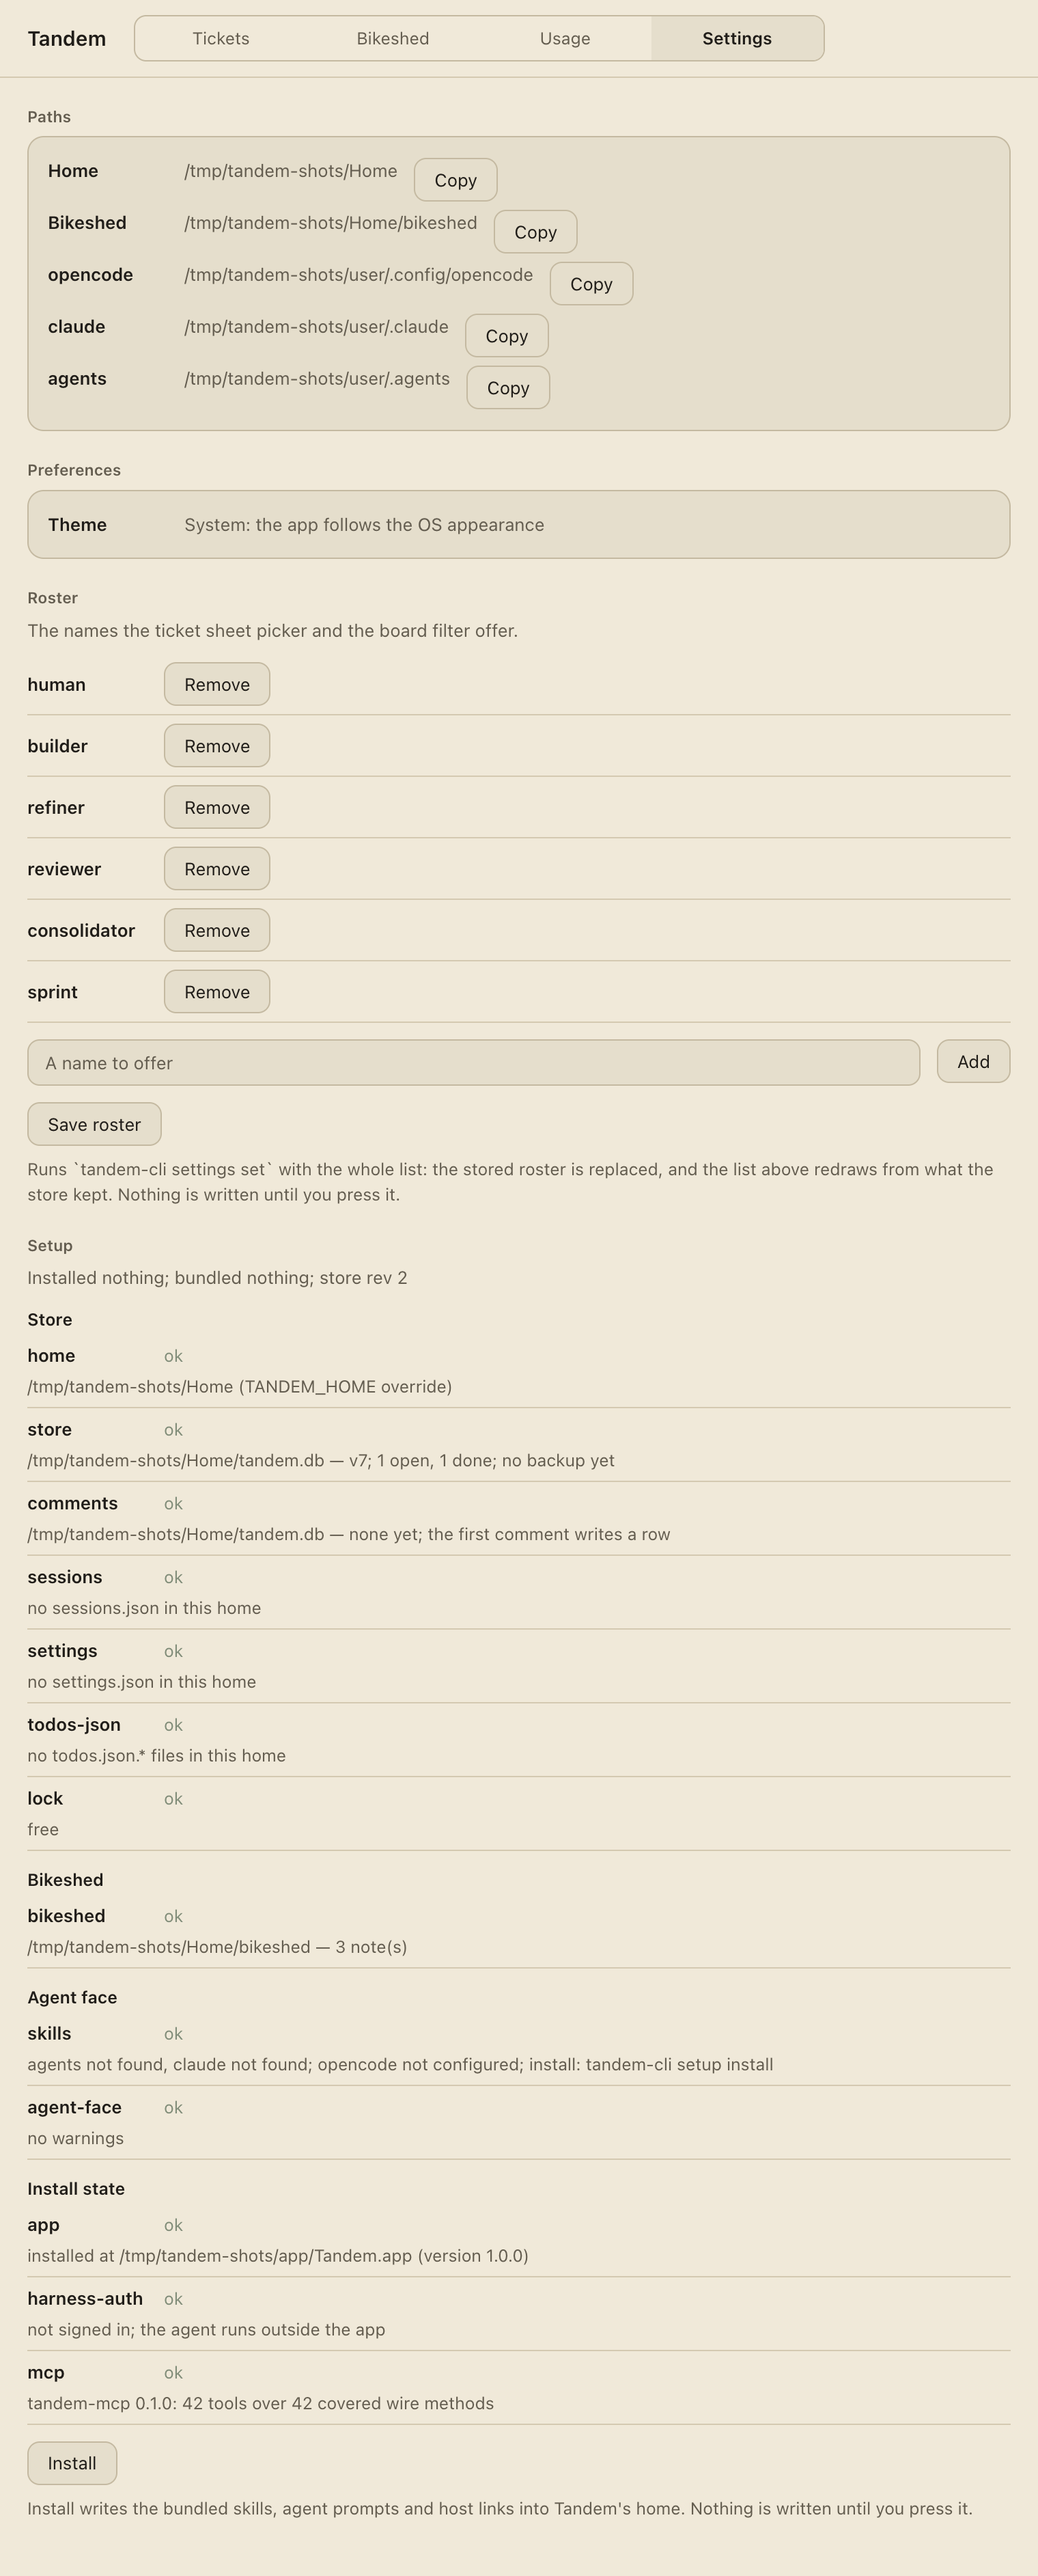
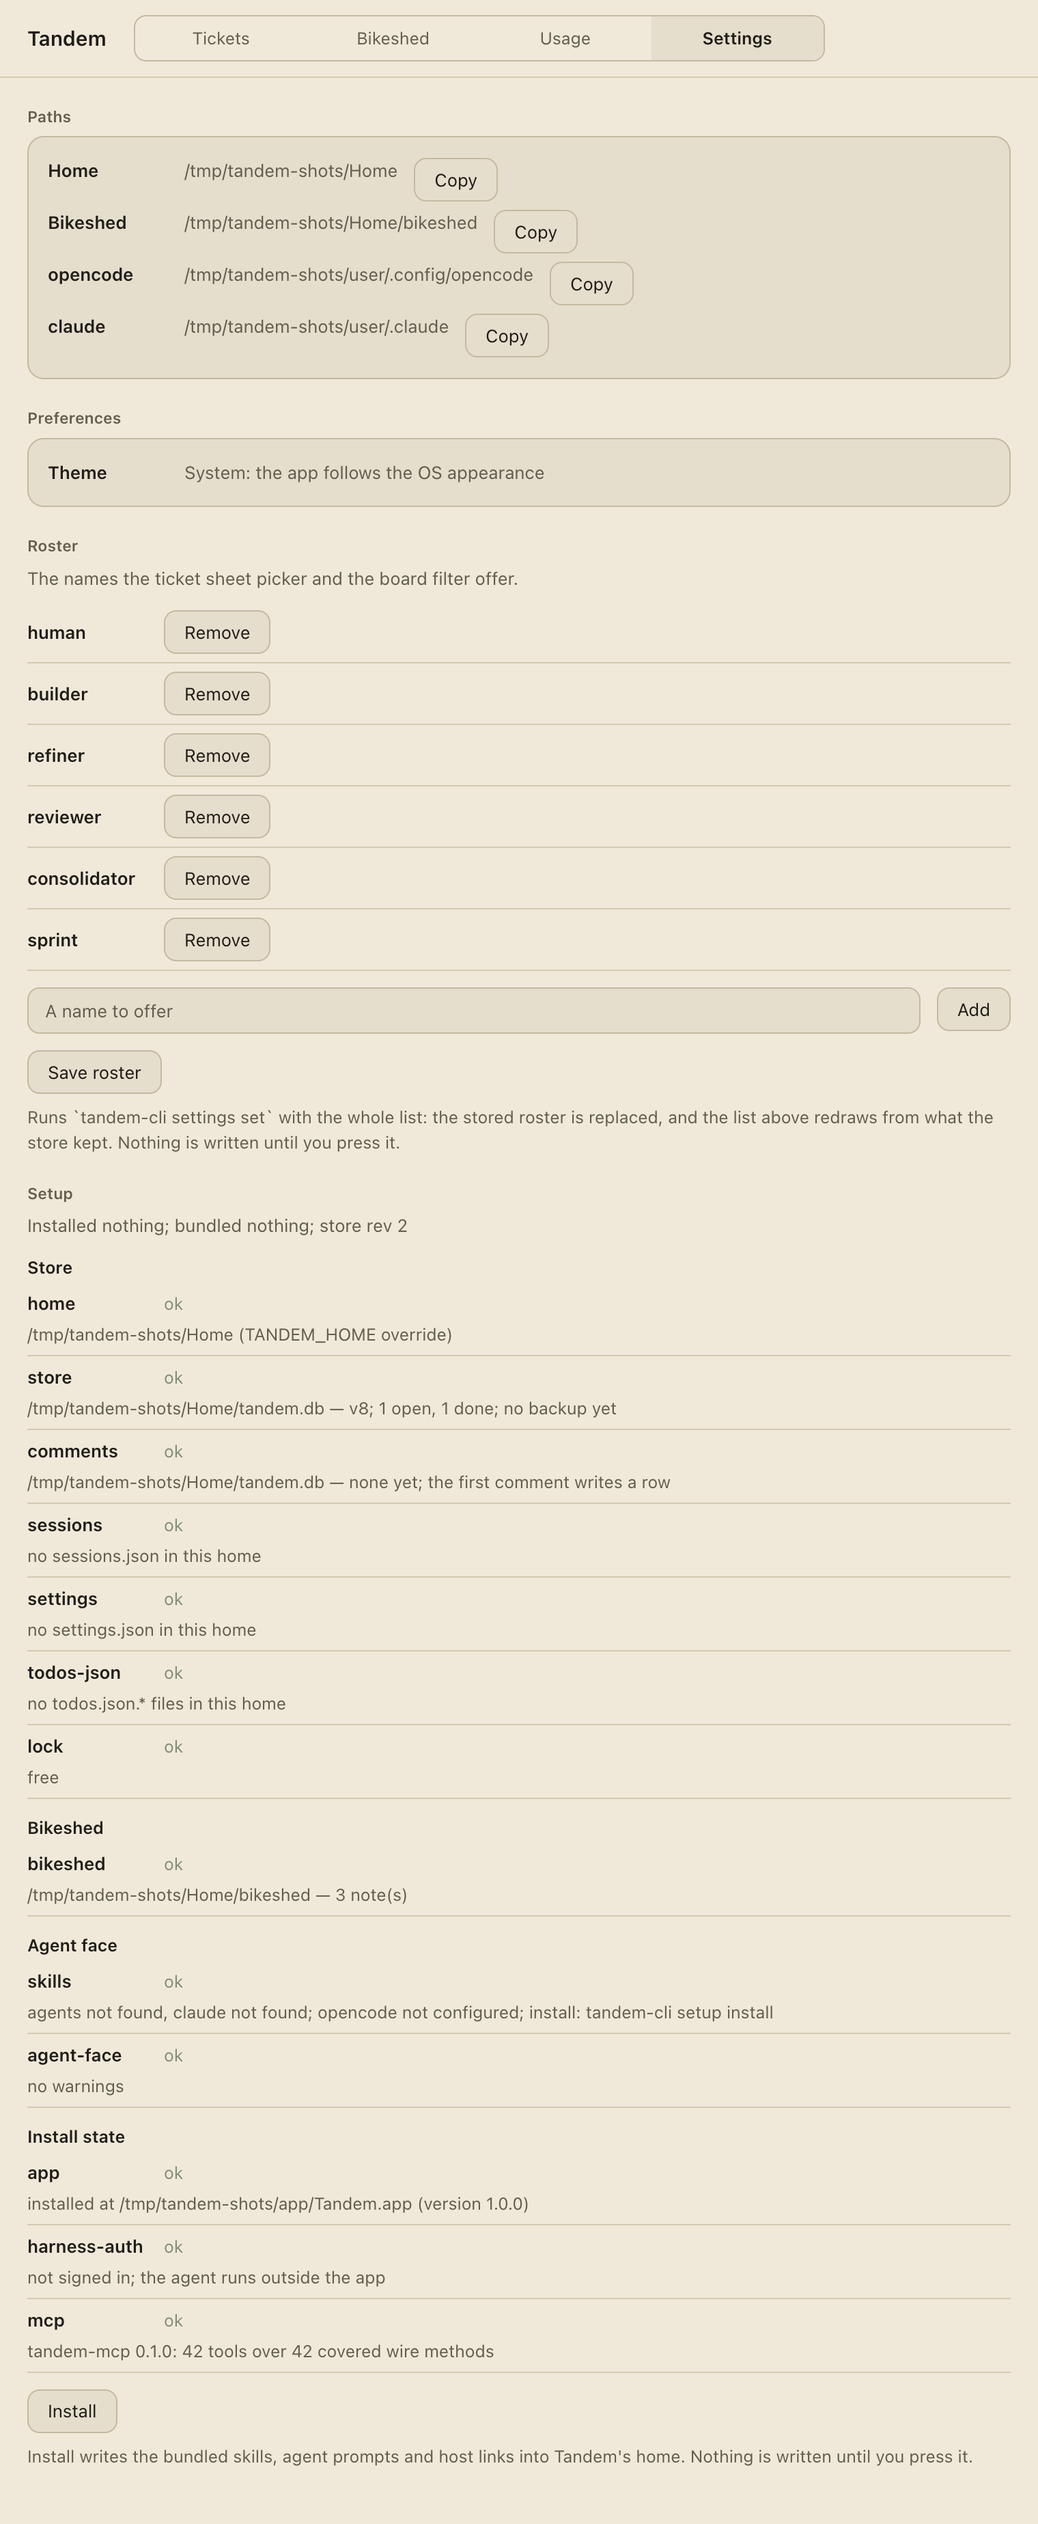
TAN-321: name every specialist prompt for Claude, pin the frontmatter, refresh Settings

diff --git a/app/shots/home.ts b/app/shots/home.ts
@@ -112,9 +112,10 @@ export function seedHome(source: string, target: string): string {
 }
 
 /**
- * The fixture user home: the three host roots the setup report reads, created
- * empty. They are directories and nothing more, because a picture of Settings
- * has to show a host's path without showing a host's contents.
+ * The fixture user home: the two agent hosts' roots the setup report reads and
+ * the canonical skills root, created empty. They are directories and nothing
+ * more, because a picture of Settings has to show a host's path without showing
+ * a host's contents.
  */
 export function seedUserHome(target: string): string {
   return replace(target, (staging) => {

diff --git a/app/shots/scenes.ts b/app/shots/scenes.ts
@@ -40,7 +40,7 @@ export const SCENES: readonly Scene[] = [
     id: 'settings',
     file: 'settings-face.png',
     description:
-      'the **Settings** face over the fixture home: the home, the bikeshed, the three agent hosts, the theme rule, the bundled and installed versions, and the doctor\'s checks each named with its state and detail',
+      'the **Settings** face over the fixture home: the home, the bikeshed, the opencode and claude agent hosts, the theme rule, the bundled and installed versions, and the doctor\'s checks each named with its state and detail',
   },
   {
     id: 'tickets-list',

diff --git a/app/tests/shots/settings.shots.ts b/app/tests/shots/settings.shots.ts
@@ -11,7 +11,7 @@ import { computed, token } from '../../shots/tokens'
 
 /**
  * The Settings face a human reads: the machine's paths (the seeded home and
- * the seeded user home's three hosts) with one-click Copy, the Preferences
+ * the seeded user home's two agent hosts) with one-click Copy, the Preferences
  * theme rule, and the setup report's thirteen checks in four groups with their
  * state.
  *

diff --git a/app/renderer/src/wire/HostRoot.ts b/app/renderer/src/wire/HostRoot.ts
@@ -5,7 +5,8 @@
  */
 export type HostRoot = { 
 /**
- * `opencode`, `claude` or `agents`, the wire's host names.
+ * `opencode` or `claude`, the wire's host names; the canonical
+ * `~/.agents/skills` root is not a host and never appears here.
  */
 host: string, 
 /**

diff --git a/rust/core/src/tests/scaffold_convention.rs b/rust/core/src/tests/scaffold_convention.rs
@@ -602,6 +602,49 @@ fn the_agent_face_names_every_prompt() {
     );
 }
 
+/// TAN-321: the claude prompt links serve `~/.claude/agents/<name>.md`, and
+/// Claude reads the subagent's name from the file's own frontmatter, so every
+/// prompt in the face must name itself and describe itself.
+#[test]
+fn every_prompt_names_itself_for_claude() {
+    let mut checked = 0;
+    let directory = root().join("agents");
+    let mut paths: Vec<std::path::PathBuf> = std::fs::read_dir(&directory)
+        .expect("the agents directory reads")
+        .flatten()
+        .map(|entry| entry.path())
+        .filter(|path| path.extension().is_some_and(|ext| ext == "md"))
+        .collect();
+    paths.sort();
+    for path in paths {
+        let stem = path
+            .file_stem()
+            .expect("a prompt has a stem")
+            .to_string_lossy()
+            .to_string();
+        let text = std::fs::read_to_string(&path).expect("a prompt reads");
+        let frontmatter = text
+            .strip_prefix("---\n")
+            .and_then(|rest| rest.split_once("\n---"))
+            .map(|(frontmatter, _)| frontmatter)
+            .unwrap_or_else(|| panic!("agents/{stem}.md opens with a frontmatter block"));
+        assert!(
+            frontmatter
+                .lines()
+                .any(|line| line == format!("name: {stem}")),
+            "agents/{stem}.md names itself `{stem}` in its frontmatter"
+        );
+        assert!(
+            frontmatter
+                .lines()
+                .any(|line| line.starts_with("description: ")),
+            "agents/{stem}.md carries a description"
+        );
+        checked += 1;
+    }
+    assert_eq!(checked, 7, "the face carries seven prompts");
+}
+
 /// TAN-326: a specialist reads and comments, and cannot write files, ask the
 /// human, or spawn another reader. None pins a model (ADR 0026's amendment).
 #[test]

diff --git a/rust/core/src/wire/rpc.rs b/rust/core/src/wire/rpc.rs
@@ -1553,7 +1553,8 @@ pub struct SessionDetailReply {
 #[derive(Debug, Clone, PartialEq, Eq, Serialize, TS)]
 #[serde(rename_all = "camelCase")]
 pub struct HostRoot {
-    /// `opencode`, `claude` or `agents`, the wire's host names.
+    /// `opencode` or `claude`, the wire's host names; the canonical
+    /// `~/.agents/skills` root is not a host and never appears here.
     pub host: String,
     /// The directory the host reads the face from.
     pub path: String,

diff --git a/docs/screenshots/README.md b/docs/screenshots/README.md
@@ -137,7 +137,7 @@ DOM, the same row ids and the same counts on unstyled text.
 | `electron-shell.png` | the shell at its 760 pt floor: the wordmark, the four tabs (Tickets, Bikeshed, Usage, Settings), the Tickets face it opens on, and the store revision read over `rpc` |
 | `usage-face.png` | the **Usage** face over the fixture home: five weeks of reported spend and its coverage, four charts each against its own scale and with a swatched legend that draws each bar's exact colour (Tokens grouping input and output as two bars per column, Cache grouping cache read and cache write, the two grouped charts sharing one colour pair, Total tokens on its own, and Cost), Half and Max gridline ticks naming each scale, All time read as Monday-started weekly columns, the ticket rows and their arithmetic, the Day/Model/Agent/Ticket picker beside the Total/Average per-record toggle, and a ticket row rolled down to the records behind it, each naming its session, agent, model, local start, cost, tokens and the tickets it carried |
 | `bikeshed-face.png` | the **Bikeshed** face over the fixture home: two full-bleed columns, the parchment tree at a fixed 260 with its focus picker, reveal control and Health panel, and the paper document at a centred 740 whose sticky breadcrumb names the staged inline note and holds the note size control, the pinned formatting toolbar above the block surface with its pressed Heading action and its eleven line-drawn glyphs, the block surface drawing a bold run, a link, a wikilink chip and a display-math block rendered by KaTeX, and the document footer after it naming the draft a killed save left as a recovery |
-| `settings-face.png` | the **Settings** face over the fixture home: the home, the bikeshed, the three agent hosts, the theme rule, the bundled and installed versions, and the doctor's checks each named with its state and detail |
+| `settings-face.png` | the **Settings** face over the fixture home: the home, the bikeshed, the opencode and claude agent hosts, the theme rule, the bundled and installed versions, and the doctor's checks each named with its state and detail |
 | `tickets-list.png` | the **Tickets** face in its list layout over the port's 78-ticket board home (`Fixtures/port/Board`): the quick-add, the Open/Done/All scopes with their counts, the status, assignee and lane filters, the search, and the lane-grouped rows with each ticket's ref, title, status, assignee, lane and blocked mark |
 | `tickets-board.png` | the same face on the same 78-ticket board home in its board layout: one column per workflow stage in stage order from Backlog to Done, each head naming the stage and the number of cards in it, each card the lane chip, the title and the ref, assignee and blocked footer, and each column's foot carrying its add |
 | `tickets-focus.png` | the **Tickets** face with a project focus set: the focus control naming the active project with its show-all escape, and the board drawing that project's cards across the columns |

diff --git a/docs/adr/0034-agent-face-in-the-artifact.md b/docs/adr/0034-agent-face-in-the-artifact.md
@@ -118,4 +118,4 @@ The consequence, stated: `tandem-cli doctor` now exits `1` while a `warn` stands
 - **ADR 0003's bundle contents.** The prebuilt artifact now carries `Contents/Resources/agent/` beside the two binaries, `Info.plist`, the icon, `NOTICE.txt` and the editor bundle. The distribution decision (one cask, in-bundle CLI) is unchanged.
 - **ADR 0014's check list.** The list is eight rows, not seven, and the new row can fail: `agent-face`. ADR 0018's rejection of a seventh row is not contradicted, because that row could never fail; this one can. The report's shape and the pass/fail rule are unchanged, and the `skills` row stays informational.
 - **The trunk is `main`** (ADR 0019, amended 2026-10-29). The release is a tag on `main`'s head; no branch named `dev` exists, and nothing here names one.
-- **The canonical root and the retired `agents` host (TAN-321).** The face's skills reach every native reader through `~/.agents/skills`, written as links by every run, so the root is not a host and `--host agents` is refused. Claude's prompts got a route with it (`~/.claude/agents/<name>.md`) because the four prompts carry `name` and `description` frontmatter, which is what Claude requires of a subagent. The install stays additive: the canonical set is a second link set built from the same bundle list, so it cannot drift from the host relays, and no existing relay is repointed.
+- **The canonical root and the retired `agents` host (TAN-321).** The face's skills reach every native reader through `~/.agents/skills`, written as links by every run, so the root is not a host and `--host agents` is refused. Claude's prompts got a route with it (`~/.claude/agents/<name>.md`) because the seven prompts (the four passes and the three specialist readers) carry `name` and `description` frontmatter, which is what Claude requires of a subagent. The install stays additive: the canonical set is a second link set built from the same bundle list, so it cannot drift from the host relays, and no existing relay is repointed.

diff --git a/docs/install-paths.md b/docs/install-paths.md
@@ -22,7 +22,7 @@ Four properties of those bytes decide most of the comparison:
 - **The bundle is ad-hoc signed, sealed, and not notarized.** `codesign -dv /Applications/Tandem.app` reads `Signature=adhoc`, `TeamIdentifier=not set`, `Sealed Resources version=2`; `check:artifact` and the release job refuse a bundle that does not verify and seal. Developer ID signing and notarization are `PRT-32`, on hold for the human.
 - **Every download is quarantined, so every path pays the strip.** Homebrew applies `com.apple.quarantine` to a cask download (observed on this Mac at 1.0.2), and until it is cleared the app is refused and the in-bundle `tandem-cli` is killed (exit 137) as well. The documented fix is one line, `xattr -dr com.apple.quarantine /Applications/Tandem.app`, once per install or upgrade, and each upgrade also warns that the signer changed ([ADR 0003](adr/0003-distribution.md)).
 
-The install is also two acts, not one, on every path: the app, then the agent face. The cask puts `Tandem.app` in `/Applications` and links the bundled `tandem-cli` into Homebrew's `bin`, and `tandem-cli setup install` (or the wizard's one press) links the skills, the four prompts and `AGENTS.md` into the host ([ADR 0034](adr/0034-agent-face-in-the-artifact.md)). Nothing in the artifact configures a host by itself.
+The install is also two acts, not one, on every path: the app, then the agent face. The cask puts `Tandem.app` in `/Applications` and links the bundled `tandem-cli` into Homebrew's `bin`, and `tandem-cli setup install` (or the wizard's one press) links the skills, the seven prompts and `AGENTS.md` into the host ([ADR 0034](adr/0034-agent-face-in-the-artifact.md)). Nothing in the artifact configures a host by itself.
 
 ## The three paths
 

diff --git a/agents/security.md b/agents/security.md
@@ -1,4 +1,5 @@
 ---
+name: security
 description: "Reads the security lens at refine and review: secrets and tokens, shell and SQL interpolation, input that reaches a path, store writes, and permission changes"
 mode: subagent
 color: "#ef4444"

diff --git a/agents/ux.md b/agents/ux.md
@@ -1,4 +1,5 @@
 ---
+name: ux
 description: "Reads the ux lens at refine and review: keyboard paths, destructive acts without undo or confirmation, empty and error states, and the human's round-trips"
 mode: subagent
 color: "#06b6d4"

diff --git a/agents/architect.md b/agents/architect.md
@@ -1,4 +1,5 @@
 ---
+name: architect
 description: "Reads the architecture lens at refine and review: layering, one truth per fact, schema and migration discipline, and the ADRs a change touches"
 mode: subagent
 color: "#f59e0b"
